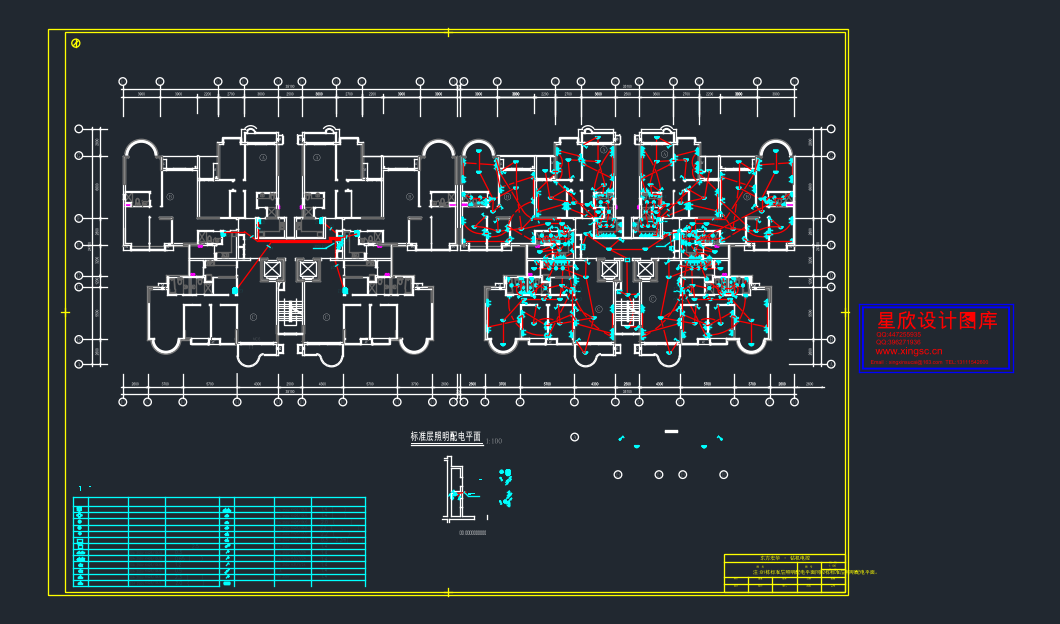
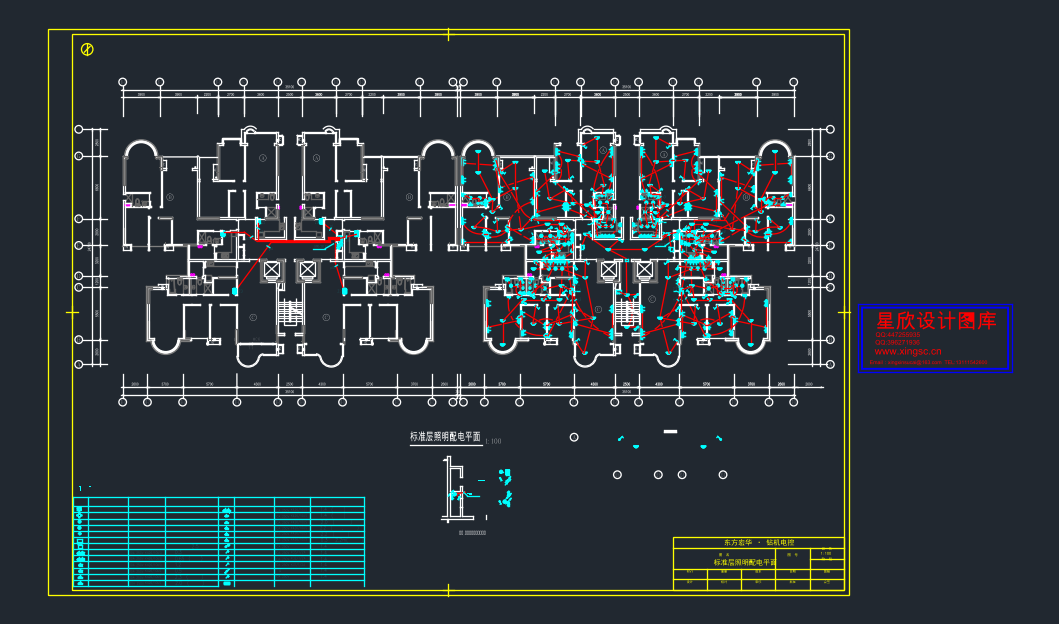
fix(acad_com): insert_frame 改用非等比拉伸，根治非√2 幅面留白/裁切
案例十住宅楼电气图 5 张问题图（弱电1/强电平面/首二层商场平面/
裙楼消防平面/首层配电干线平面图）替换后，新 HH 图框比原内容大一圈、
下半部空一大块，局部详图/图例被裁掉。

根因：insert_frame 用等比缩放 scale=min(W/tw, H/th)。旧框非 √2
（首层配电 0.953、首二层商场 1.191、裙楼 1.769）时，√2 模板等比
内切旧框 → 一侧留白、一侧裁切。

修复：按 x/y 分别拉伸 (xscale=W/tw, yscale=H/th)，新框与旧框 bbox
精确重合，无留白/裁切。双插法（外壳导入+按名插 HH_FRAME_* 带属性
块+删外壳）与属性回填不变，返回 scale 由标量改为元组。

- 重跑 5 张问题图（A2/A1/A0/C1051X594 非标2帧/A0）并重新渲染 after PNG
- 同步刷新 case10_01~08/10 共 9 张缩略图（case10_09/11 为 √2 帧，输出无变化）
- pytest 62 passed / 2 skipped，无回归
- .workbuddy/push_files.py：blob 循环加 0.4s 节流，防 GitHub 二级限流(429)

Changed region(s): [[0.0623, 0.0304, 0.966, 0.9744], [0.1246, 0.4872, 0.1558, 0.5481], [0.1246, 0.2131, 0.1558, 0.2436]]

diff --git a/lib/acad_com.py b/lib/acad_com.py
@@ -312,14 +312,15 @@ def _size_name_from_tpl(tpl_dwg):
 
 
 def insert_frame(msp, frame, tpl_dwg, fields, size_table=None):
-    """在 frame 左下角插入公司图框块（tpl_dwg 为 prepare_templates 生成的 *.dwg），等比缩放并回填属性。
+    """在 frame 左下角插入公司图框块（tpl_dwg 为 prepare_templates 生成的 *.dwg），缩放并回填属性。
 
     由于模板 dwg 内部是“块 HH_FRAME_Ax 内嵌于模型空间”，直接 InsertBlock 该 dwg 会得到一个
     “外壳块 + 嵌套 HH_FRAME_Ax”的结构，外层 GetAttributes 为空。为拿到可直接回填的 14 个属性，
     采用双插法：先 InsertBlock(dwg) 把 HH_FRAME_Ax 块定义导入目标图，再按名 InsertBlock("HH_FRAME_Ax")
     得到干净、带属性的块引用，最后删掉外壳块。
 
-    返回 (insert, scale)。缩放 = min(W/tw, H/th)（等比，保持模板自身比例）。
+    缩放采用非等比拉伸（xscale=W/tw, yscale=H/th），使新图框外框与旧框 bbox 完全重合，
+    根治非√2 幅面因等比缩放导致的留白/内容被裁。对标准√2 幅面，两个比例几乎相等，视觉上无失真。
     """
     if size_table is None:
         size_table = A_SIZES
@@ -327,19 +328,20 @@ def insert_frame(msp, frame, tpl_dwg, fields, size_table=None):
     W, H = x1 - x0, y1 - y0
     size_name = _size_name_from_tpl(tpl_dwg)
     tw, th = size_table.get(size_name, (W, H))
-    scale = min(W / tw, H / th) if tw and th else 1.0
+    xscale = W / tw if tw else 1.0
+    yscale = H / th if th else 1.0
 
     # 1) 插入外壳块（导入 HH_FRAME_Ax 块定义）
     wrapper = _retry(lambda: msp.InsertBlock(
         variant_point(x0, y0, 0.0),
         tpl_dwg,
-        scale, scale, scale, 0.0,
+        xscale, yscale, 1.0, 0.0,
     ), label="InsertBlock wrapper")
     # 2) 按名插入干净的带属性块
     insert = _retry(lambda: msp.InsertBlock(
         variant_point(x0, y0, 0.0),
         "HH_FRAME_" + size_name,
-        scale, scale, scale, 0.0,
+        xscale, yscale, 1.0, 0.0,
     ), label="InsertBlock frame")
     # 3) 删除外壳块，只保留按名插入的块
     try:
@@ -357,7 +359,7 @@ def insert_frame(msp, frame, tpl_dwg, fields, size_table=None):
     except Exception as e:
         print("    set attribs warn:", e)
 
-    return insert, scale
+    return insert, (xscale, yscale)
 
 
 def _is_dwg(path):

diff --git a/.workbuddy/push_files.py b/.workbuddy/push_files.py
@@ -8,6 +8,7 @@ import json
 import os
 import subprocess
 import sys
+import time
 import urllib.request
 import urllib.error
 
@@ -59,6 +60,8 @@ def main():
                    {"content": base64.b64encode(content).decode("ascii"), "encoding": "base64"}, token)
         tree_entries.append({"path": f, "mode": "100644", "type": "blob", "sha": blob["sha"]})
         print(f"  blob {f} -> {blob['sha']}")
+        # 礼貌节流：避免突发大量 blob 触发 GitHub 二级限流(429)
+        time.sleep(0.4)
 
     tree = api("POST", "/git/trees", {"base_tree": base_tree, "tree": tree_entries}, token)
     print(f"新 tree   : {tree['sha']}")
